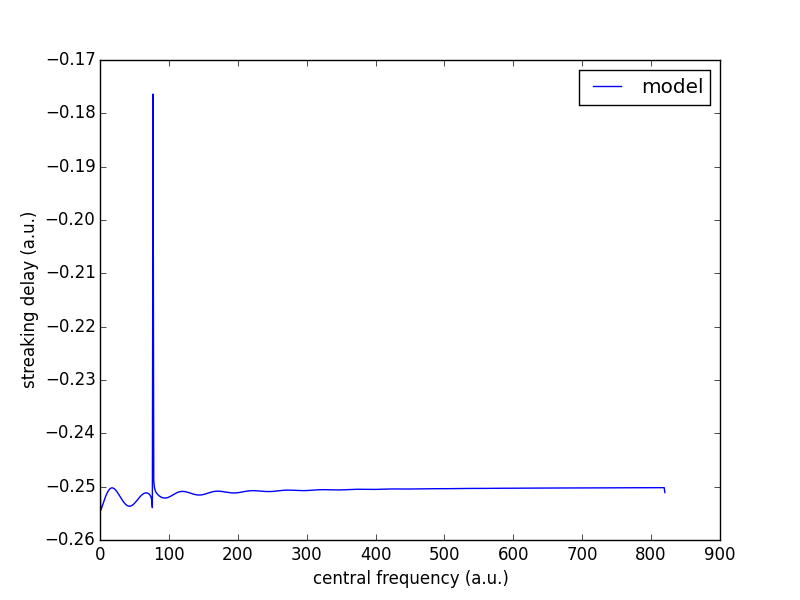
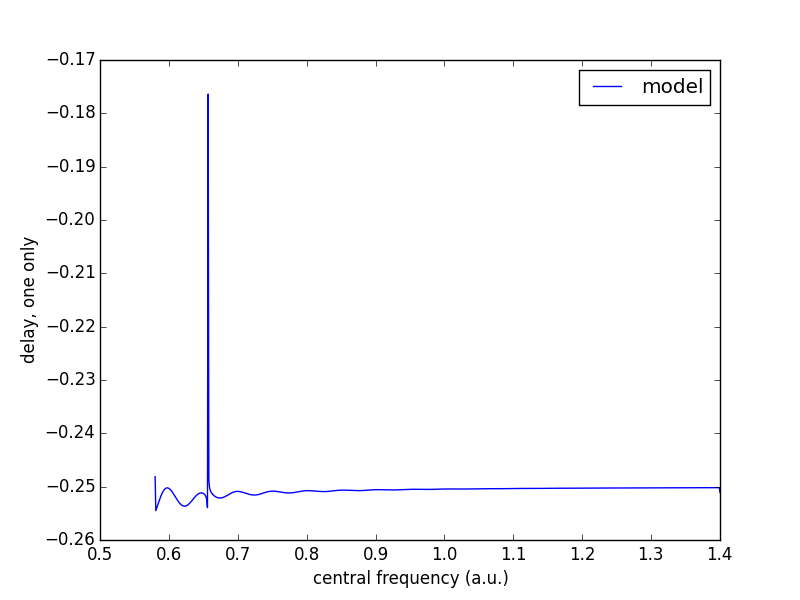
Figure updates

diff --git a/Source/pertSource/PerturbationTheory/PerturbationTheory/plotIndividual.py b/Source/pertSource/PerturbationTheory/PerturbationTheory/plotIndividual.py
@@ -80,11 +80,12 @@ dimcfThree = np.gradient(imcfThree, domega)
 cfSquareThree = recfThree**2 + imcfThree**2
 delayThree = (recfThree*dimcfThree - imcfThree*drecfThree)/cfSquareThree
 
-plt.plot(omega, cfSquareThree)
-# plt.plot(delayThree)
+# plt.plot(omega, cfSquareThree)
+plt.plot(omega, delayOne)
 # plt.plot(omega, delayOne, 'r-', delayThree, 'b-')
 # plb.ylim([-10, 10])
-plb.ylabel('cf squared, just three')
+plb.ylabel('delay, one only')
+# plb.ylabel('cf squared, just three')
 plb.xlabel('central frequency (a.u.)')
 plb.legend(['model', 'TDSE'])
 plt.show()
